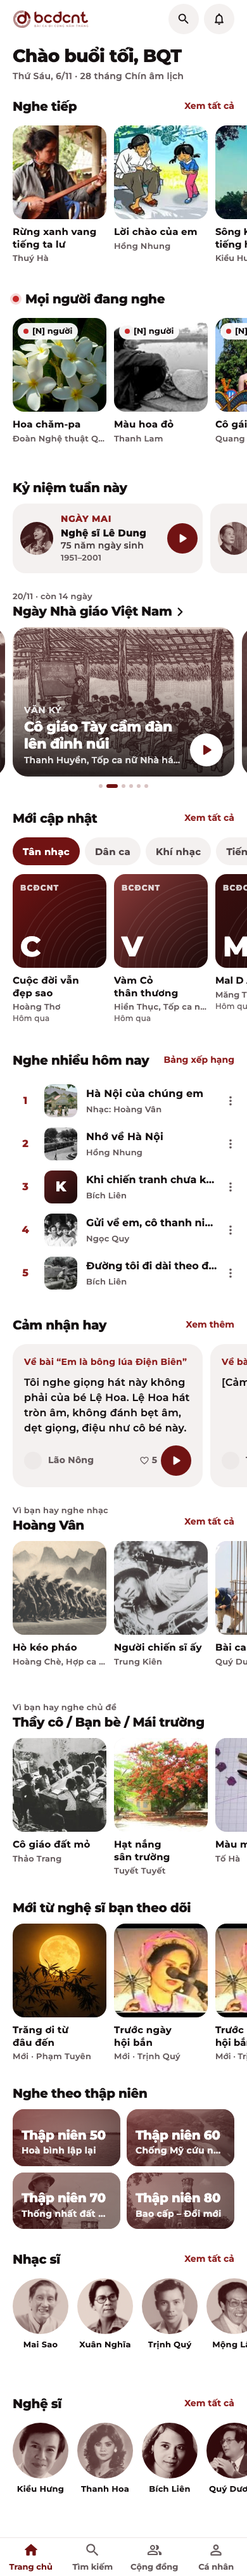
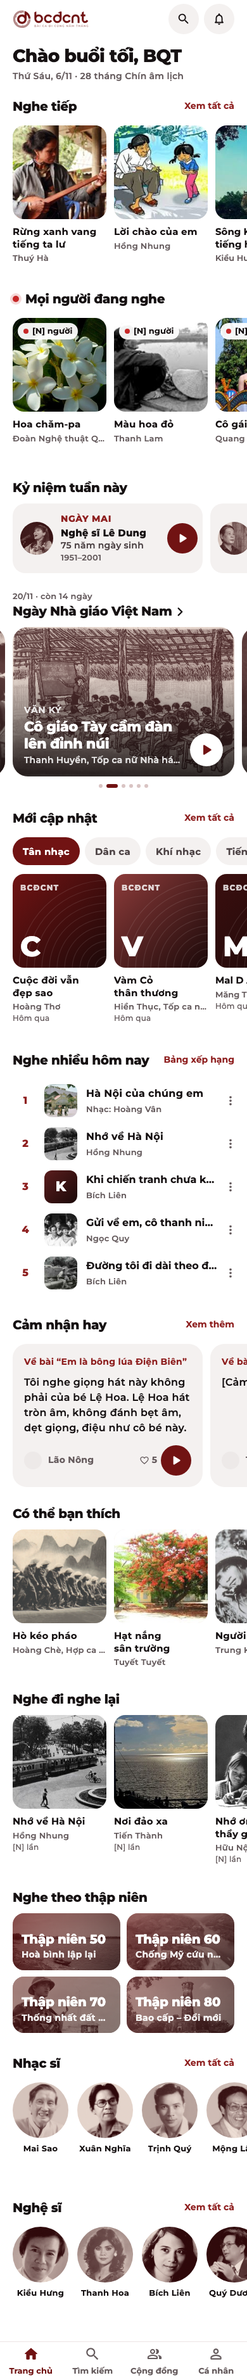
docs(design): canvas trang chủ bản 32 — Có thể bạn thích (phẳng), Nghe đi nghe lại

diff --git a/design/canvas/project/Main.dc.html b/design/canvas/project/Main.dc.html
@@ -11,7 +11,7 @@
 <link href="https://fonts.googleapis.com/css2?family=Montserrat:wght@500;600;700;800&amp;display=swap" rel="stylesheet">
 <style>body{margin:0}a{color:#8E1F1F;text-decoration:none}</style>
 </helmet>
-<div style="width: 390px; height: 4067px; background: #FFFFFF; font-family: Montserrat, sans-serif; line-height: 1.22; color: #161112; display: flex; flex-direction: column; overflow: hidden">
+<div style="width: 390px; height: 3758px; background: #FFFFFF; font-family: Montserrat, sans-serif; line-height: 1.22; color: #161112; display: flex; flex-direction: column; overflow: hidden">
 <!-- BrandTint duotone (lib/widgets/ui.dart): dark #2E080A -> light #F6E8DE by luminance -->
 <svg width="0" height="0" aria-hidden="true" style="position: absolute"><filter id="brandTint" color-interpolation-filters="sRGB"><feColorMatrix type="matrix" values="0.1667 0.5609 0.0566 0 0.1804  0.1868 0.6283 0.0634 0 0.0314  0.1767 0.5946 0.0600 0 0.0392  0 0 0 1 0"></feColorMatrix></filter></svg>
 <!-- Header: logo 120x30 + two 48pt round buttons -->
@@ -43,12 +43,11 @@
 <!-- Cảm nhận hay (_QuoteCard, 300 wide) -->
 <div style="height: 78px; box-sizing: border-box; padding: 28px 12px 10px 20px; display: flex; align-items: center; flex-shrink: 0"><h2 style="margin: 0; flex: 1; min-width: 0; font-size: 20px; line-height: 24px; font-weight: 800; letter-spacing: -0.4px; color: #161112; white-space: nowrap; overflow: hidden; text-overflow: ellipsis">Cảm nhận hay</h2><a href="CongDong.dc.html" style="height: 40px; padding: 0 8px; display: flex; align-items: center; font-size: 14px; font-weight: 700; color: #8E1F1F; text-decoration: none">Xem thêm</a></div><div style="height: 226px; display: flex; gap: 12px; padding: 0 20px; overflow: hidden; flex-shrink: 0"><div style="width: 300px; height: 226px; flex-shrink: 0; box-sizing: border-box; padding: 19.5px 18px 18px 18px; border-radius: 22px; background: #F4F1F0; display: flex; flex-direction: column"><a href="BaiHat.dc.html" style="font-size: 14px; line-height: 17px; font-weight: 700; color: #8E1F1F; text-decoration: none; white-space: nowrap; overflow: hidden; text-overflow: ellipsis; letter-spacing: 0.25px">Về bài “Em là bông lúa Điện Biên”</a><div style="margin-top: 12px; flex: 1; min-height: 0"><div style="font-size: 16px; line-height: 24px; font-weight: 600; color: #161112; display: -webkit-box; -webkit-line-clamp: 4; -webkit-box-orient: vertical; overflow: hidden; letter-spacing: 0.25px">Tôi nghe giọng hát này không phải của bé Lệ Hoa. Lệ Hoa hát tròn âm, không đánh bẹt âm, dẹt giọng, điệu như cô bé này.</div></div><div style="height: 48px; display: flex; align-items: center"><span style="width: 28px; height: 28px; flex-shrink: 0; border-radius: 14px; background: #EDE9E8"></span><span style="margin-left: 10px; flex: 1; min-width: 0; font-size: 14px; font-weight: 700; color: #665C5E; white-space: nowrap; overflow: hidden; text-overflow: ellipsis; letter-spacing: 0.25px">Lão Nông</span><svg width="16" height="16" viewBox="0 0 24 24" fill="#665C5E" aria-hidden="true"><path d="M19.66 3.99c-2.64-1.8-5.9-.96-7.66 1.1-1.76-2.06-5.02-2.91-7.66-1.1-1.4.96-2.28 2.58-2.34 4.29-.14 3.88 3.3 6.99 8.55 11.76l.1.09c.76.69 1.93.69 2.69-.01l.11-.1c5.25-4.76 8.68-7.87 8.53-11.75-.06-1.7-.94-3.32-2.32-4.28zM12.1 18.55l-.1.1-.1-.1C7.14 14.24 4 11.39 4 8.5 4 6.5 5.5 5 7.5 5c1.54 0 3.04.99 3.57 2.36h1.87C13.46 5.99 14.96 5 16.5 5c2 0 3.5 1.5 3.5 3.5 0 2.89-3.14 5.74-7.9 10.05z"></path></svg><span style="margin-left: 4px; font-size: 14px; font-weight: 700; color: #665C5E">5</span><button aria-label="Nghe bài này" style="margin-left: 6px; width: 48px; height: 48px; flex-shrink: 0; padding: 0; border: none; border-radius: 24px; background: #711313; display: flex; align-items: center; justify-content: center"><svg width="26" height="26" viewBox="0 0 24 24" fill="#FFFFFF" aria-hidden="true"><path d="M8 6.82v10.36c0 .79.87 1.27 1.54.84l8.14-5.18c.62-.39.62-1.29 0-1.69L9.54 5.98C8.87 5.55 8 6.03 8 6.82z"></path></svg></button></div></div><div style="width: 300px; height: 226px; flex-shrink: 0; box-sizing: border-box; padding: 19.5px 18px 18px 18px; border-radius: 22px; background: #F4F1F0; display: flex; flex-direction: column"><a href="BaiHat.dc.html" style="font-size: 14px; line-height: 17px; font-weight: 700; color: #8E1F1F; text-decoration: none; white-space: nowrap; overflow: hidden; text-overflow: ellipsis; letter-spacing: 0.25px">Về bài “Bài ca Hà Nội”</a><div style="margin-top: 12px; flex: 1; min-height: 0"><div style="font-size: 16px; line-height: 24px; font-weight: 600; color: #161112; display: -webkit-box; -webkit-line-clamp: 4; -webkit-box-orient: vertical; overflow: hidden; letter-spacing: 0.25px">[Cảm nhận của thành viên]</div></div><div style="height: 48px; display: flex; align-items: center"><span style="width: 28px; height: 28px; flex-shrink: 0; border-radius: 14px; background: #EDE9E8"></span><span style="margin-left: 10px; flex: 1; min-width: 0; font-size: 14px; font-weight: 700; color: #665C5E; white-space: nowrap; overflow: hidden; text-overflow: ellipsis; letter-spacing: 0.25px">Thành viên</span><button aria-label="Nghe bài này" style="margin-left: 6px; width: 48px; height: 48px; flex-shrink: 0; padding: 0; border: none; border-radius: 24px; background: #711313; display: flex; align-items: center; justify-content: center"><svg width="26" height="26" viewBox="0 0 24 24" fill="#FFFFFF" aria-hidden="true"><path d="M8 6.82v10.36c0 .79.87 1.27 1.54.84l8.14-5.18c.62-.39.62-1.29 0-1.69L9.54 5.98C8.87 5.55 8 6.03 8 6.82z"></path></svg></button></div></div></div>
 
-<!-- Dành cho bạn, gom theo lý do: mỗi lý do một dải, lý do làm tiêu đề (không còn nhãn trên ảnh) -->
-<div style="height: 85px; box-sizing: border-box; padding: 28px 12px 10px 20px; display: flex; align-items: flex-end; gap: 8px; flex-shrink: 0"><div style="flex: 1; min-width: 0; display: flex; flex-direction: column"><span style="font-size: 13px; line-height: 16px; font-weight: 600; letter-spacing: 0.25px; color: #665C5E">Vì bạn hay nghe nhạc</span><h2 style="margin: 2px 0 0 0; font-size: 20px; line-height: 29px; font-weight: 800; letter-spacing: -0.4px; color: #161112; white-space: nowrap; overflow: hidden; text-overflow: ellipsis">Hoàng Vân</h2></div><a href="NgheSi.dc.html" style="height: 40px; padding: 0 8px; display: flex; align-items: center; font-size: 14px; font-weight: 700; color: #8E1F1F; text-decoration: none; flex-shrink: 0">Xem tất cả</a></div><div style="height: 226px; display: flex; gap: 12px; padding: 0 20px; overflow: hidden; flex-shrink: 0"><a href="BaiHat.dc.html" style="width: 148px; flex-shrink: 0; display: flex; flex-direction: column; text-decoration: none; color: #161112"><span style="width: 148px; height: 148px; border-radius: 18px; overflow: hidden; display: block; background: #EDE9E8"><img src="/_blob/a9096ffd363b586c77cb3ea2026d1dcd" alt="" style="width: 148px; height: 148px; object-fit: cover; display: block"></span><span style="margin-top: 10px; font-size: 15px; line-height: 19.5px; font-weight: 700; color: #161112; display: -webkit-box; -webkit-line-clamp: 2; -webkit-box-orient: vertical; overflow: hidden; letter-spacing: 0.25px">Hò kéo&nbsp;pháo</span><span style="margin-top: 4.25px; font-size: 13px; line-height: 16px; font-weight: 600; color: #665C5E; white-space: nowrap; overflow: hidden; text-overflow: ellipsis; letter-spacing: 0.25px">Hoàng Chè, Hợp ca nam nữ Đoàn NT QK2</span></a><a href="BaiHat.dc.html" style="width: 148px; flex-shrink: 0; display: flex; flex-direction: column; text-decoration: none; color: #161112"><span style="width: 148px; height: 148px; border-radius: 18px; overflow: hidden; display: block; background: #EDE9E8"><img src="/_blob/0904ef3447178bd511c2ef56eb999eb5" alt="" style="width: 148px; height: 148px; object-fit: cover; display: block"></span><span style="margin-top: 10px; font-size: 15px; line-height: 19.5px; font-weight: 700; color: #161112; display: -webkit-box; -webkit-line-clamp: 2; -webkit-box-orient: vertical; overflow: hidden; letter-spacing: 0.25px">Người chiến sĩ&nbsp;ấy</span><span style="margin-top: 4.25px; font-size: 13px; line-height: 16px; font-weight: 600; color: #665C5E; white-space: nowrap; overflow: hidden; text-overflow: ellipsis; letter-spacing: 0.25px">Trung Kiên</span></a><a href="BaiHat.dc.html" style="width: 148px; flex-shrink: 0; display: flex; flex-direction: column; text-decoration: none; color: #161112"><span style="width: 148px; height: 148px; border-radius: 18px; overflow: hidden; display: block; background: #EDE9E8"><img src="/_blob/6556b2e77a45d564ea495c6f3dbd453b" alt="" style="width: 148px; height: 148px; object-fit: cover; display: block"></span><span style="margin-top: 10px; font-size: 15px; line-height: 19.5px; font-weight: 700; color: #161112; display: -webkit-box; -webkit-line-clamp: 2; -webkit-box-orient: vertical; overflow: hidden; letter-spacing: 0.25px">Bài ca xây&nbsp;dựng</span><span style="margin-top: 4.25px; font-size: 13px; line-height: 16px; font-weight: 600; color: #665C5E; white-space: nowrap; overflow: hidden; text-overflow: ellipsis; letter-spacing: 0.25px">Quý Dương, Trọng Khôi</span></a><a href="BaiHat.dc.html" style="width: 148px; flex-shrink: 0; display: flex; flex-direction: column; text-decoration: none; color: #161112"><span style="width: 148px; height: 148px; border-radius: 18px; overflow: hidden; display: block; background: #EDE9E8"><img src="/_blob/181db0bfe01044e997e41183b929405e" alt="" style="width: 148px; height: 148px; object-fit: cover; display: block"></span><span style="margin-top: 10px; font-size: 15px; line-height: 19.5px; font-weight: 700; color: #161112; display: -webkit-box; -webkit-line-clamp: 2; -webkit-box-orient: vertical; overflow: hidden; letter-spacing: 0.25px">Tôi là người thợ&nbsp;lò</span><span style="margin-top: 4.25px; font-size: 13px; line-height: 16px; font-weight: 600; color: #665C5E; white-space: nowrap; overflow: hidden; text-overflow: ellipsis; letter-spacing: 0.25px">Trần Khánh</span></a></div>
-<div style="height: 85px; box-sizing: border-box; padding: 28px 12px 10px 20px; display: flex; align-items: flex-end; gap: 8px; flex-shrink: 0"><div style="flex: 1; min-width: 0; display: flex; flex-direction: column"><span style="font-size: 13px; line-height: 16px; font-weight: 600; letter-spacing: 0.25px; color: #665C5E">Vì bạn hay nghe chủ đề</span><h2 style="margin: 2px 0 0 0; font-size: 20px; line-height: 29px; font-weight: 800; letter-spacing: -0.4px; color: #161112; white-space: nowrap; overflow: hidden; text-overflow: ellipsis">Thầy cô / Bạn bè / Mái trường</h2></div></div><div style="height: 226px; display: flex; gap: 12px; padding: 0 20px; overflow: hidden; flex-shrink: 0"><a href="BaiHat.dc.html" style="width: 148px; flex-shrink: 0; display: flex; flex-direction: column; text-decoration: none; color: #161112"><span style="width: 148px; height: 148px; border-radius: 18px; overflow: hidden; display: block; background: #EDE9E8"><img src="/_blob/c3eb49be84f21d30d39a418683ce57e7" alt="" style="width: 148px; height: 148px; object-fit: cover; display: block"></span><span style="margin-top: 10px; font-size: 15px; line-height: 19.5px; font-weight: 700; color: #161112; display: -webkit-box; -webkit-line-clamp: 2; -webkit-box-orient: vertical; overflow: hidden; letter-spacing: 0.25px">Cô giáo đất&nbsp;mỏ</span><span style="margin-top: 4.25px; font-size: 13px; line-height: 16px; font-weight: 600; color: #665C5E; white-space: nowrap; overflow: hidden; text-overflow: ellipsis; letter-spacing: 0.25px">Thảo Trang</span></a><a href="BaiHat.dc.html" style="width: 148px; flex-shrink: 0; display: flex; flex-direction: column; text-decoration: none; color: #161112"><span style="width: 148px; height: 148px; border-radius: 18px; overflow: hidden; display: block; background: #EDE9E8"><img src="/_blob/17cfb26ccce209eb43689b40e97d4991" alt="" style="width: 148px; height: 148px; object-fit: cover; display: block"></span><span style="margin-top: 10px; font-size: 15px; line-height: 19.5px; font-weight: 700; color: #161112; display: -webkit-box; -webkit-line-clamp: 2; -webkit-box-orient: vertical; overflow: hidden; letter-spacing: 0.25px">Hạt nắng sân&nbsp;trường</span><span style="margin-top: 4.25px; font-size: 13px; line-height: 16px; font-weight: 600; color: #665C5E; white-space: nowrap; overflow: hidden; text-overflow: ellipsis; letter-spacing: 0.25px">Tuyết Tuyết</span></a><a href="BaiHat.dc.html" style="width: 148px; flex-shrink: 0; display: flex; flex-direction: column; text-decoration: none; color: #161112"><span style="width: 148px; height: 148px; border-radius: 18px; overflow: hidden; display: block; background: #EDE9E8"><img src="/_blob/2b911202dfbe35dbcc16bb5aedd8da78" alt="" style="width: 148px; height: 148px; object-fit: cover; display: block"></span><span style="margin-top: 10px; font-size: 15px; line-height: 19.5px; font-weight: 700; color: #161112; display: -webkit-box; -webkit-line-clamp: 2; -webkit-box-orient: vertical; overflow: hidden; letter-spacing: 0.25px">Màu mực&nbsp;tím</span><span style="margin-top: 4.25px; font-size: 13px; line-height: 16px; font-weight: 600; color: #665C5E; white-space: nowrap; overflow: hidden; text-overflow: ellipsis; letter-spacing: 0.25px">Tố Hà</span></a><a href="BaiHat.dc.html" style="width: 148px; flex-shrink: 0; display: flex; flex-direction: column; text-decoration: none; color: #161112"><span style="width: 148px; height: 148px; border-radius: 18px; overflow: hidden; display: block; background: #EDE9E8"><img src="/_blob/2cae449b871a222c055ec7c7dc96653e" alt="" style="width: 148px; height: 148px; object-fit: cover; display: block"></span><span style="margin-top: 10px; font-size: 15px; line-height: 19.5px; font-weight: 700; color: #161112; display: -webkit-box; -webkit-line-clamp: 2; -webkit-box-orient: vertical; overflow: hidden; letter-spacing: 0.25px">Bài học đầu&nbsp;tiên</span><span style="margin-top: 4.25px; font-size: 13px; line-height: 16px; font-weight: 600; color: #665C5E; white-space: nowrap; overflow: hidden; text-overflow: ellipsis; letter-spacing: 0.25px">Thanh Thảo</span></a></div>
+<!-- Có thể bạn thích: gợi ý ngẫu nhiên, phẳng (không chia nhóm theo lý do), không biểu tượng trên ảnh -->
+<div style="height: 67px; box-sizing: border-box; padding: 28px 12px 10px 20px; flex-shrink: 0"><h2 style="margin: 0; font-size: 20px; line-height: 29px; font-weight: 800; letter-spacing: -0.4px; color: #161112; white-space: nowrap; overflow: hidden; text-overflow: ellipsis">Có thể bạn thích</h2></div><div style="height: 226px; display: flex; gap: 12px; padding: 0 20px; overflow: hidden; flex-shrink: 0"><a href="BaiHat.dc.html" style="width: 148px; flex-shrink: 0; display: flex; flex-direction: column; text-decoration: none; color: #161112"><span style="width: 148px; height: 148px; border-radius: 18px; overflow: hidden; display: block; background: #EDE9E8"><img src="/_blob/a9096ffd363b586c77cb3ea2026d1dcd" alt="" style="width: 148px; height: 148px; object-fit: cover; display: block"></span><span style="margin-top: 10px; font-size: 15px; line-height: 19.5px; font-weight: 700; color: #161112; display: -webkit-box; -webkit-line-clamp: 2; -webkit-box-orient: vertical; overflow: hidden; letter-spacing: 0.25px">Hò kéo&nbsp;pháo</span><span style="margin-top: 4.25px; font-size: 13px; line-height: 16px; font-weight: 600; color: #665C5E; white-space: nowrap; overflow: hidden; text-overflow: ellipsis; letter-spacing: 0.25px">Hoàng Chè, Hợp ca nam nữ Đoàn NT QK2</span></a><a href="BaiHat.dc.html" style="width: 148px; flex-shrink: 0; display: flex; flex-direction: column; text-decoration: none; color: #161112"><span style="width: 148px; height: 148px; border-radius: 18px; overflow: hidden; display: block; background: #EDE9E8"><img src="/_blob/17cfb26ccce209eb43689b40e97d4991" alt="" style="width: 148px; height: 148px; object-fit: cover; display: block"></span><span style="margin-top: 10px; font-size: 15px; line-height: 19.5px; font-weight: 700; color: #161112; display: -webkit-box; -webkit-line-clamp: 2; -webkit-box-orient: vertical; overflow: hidden; letter-spacing: 0.25px">Hạt nắng sân&nbsp;trường</span><span style="margin-top: 4.25px; font-size: 13px; line-height: 16px; font-weight: 600; color: #665C5E; white-space: nowrap; overflow: hidden; text-overflow: ellipsis; letter-spacing: 0.25px">Tuyết Tuyết</span></a><a href="BaiHat.dc.html" style="width: 148px; flex-shrink: 0; display: flex; flex-direction: column; text-decoration: none; color: #161112"><span style="width: 148px; height: 148px; border-radius: 18px; overflow: hidden; display: block; background: #EDE9E8"><img src="/_blob/0904ef3447178bd511c2ef56eb999eb5" alt="" style="width: 148px; height: 148px; object-fit: cover; display: block"></span><span style="margin-top: 10px; font-size: 15px; line-height: 19.5px; font-weight: 700; color: #161112; display: -webkit-box; -webkit-line-clamp: 2; -webkit-box-orient: vertical; overflow: hidden; letter-spacing: 0.25px">Người chiến sĩ&nbsp;ấy</span><span style="margin-top: 4.25px; font-size: 13px; line-height: 16px; font-weight: 600; color: #665C5E; white-space: nowrap; overflow: hidden; text-overflow: ellipsis; letter-spacing: 0.25px">Trung Kiên</span></a><a href="BaiHat.dc.html" style="width: 148px; flex-shrink: 0; display: flex; flex-direction: column; text-decoration: none; color: #161112"><span style="width: 148px; height: 148px; border-radius: 18px; overflow: hidden; display: block; background: #EDE9E8"><img src="/_blob/2b911202dfbe35dbcc16bb5aedd8da78" alt="" style="width: 148px; height: 148px; object-fit: cover; display: block"></span><span style="margin-top: 10px; font-size: 15px; line-height: 19.5px; font-weight: 700; color: #161112; display: -webkit-box; -webkit-line-clamp: 2; -webkit-box-orient: vertical; overflow: hidden; letter-spacing: 0.25px">Màu mực&nbsp;tím</span><span style="margin-top: 4.25px; font-size: 13px; line-height: 16px; font-weight: 600; color: #665C5E; white-space: nowrap; overflow: hidden; text-overflow: ellipsis; letter-spacing: 0.25px">Tố Hà</span></a></div>
 
-<!-- Mới từ nghệ sĩ bạn theo dõi (chỉ bài 30 ngày gần nhất; không có thì ẩn) -->
-<div style="height: 67px; box-sizing: border-box; padding: 28px 12px 10px 20px; flex-shrink: 0"><h2 style="margin: 0; font-size: 20px; line-height: 29px; font-weight: 800; letter-spacing: -0.4px; color: #161112; white-space: nowrap; overflow: hidden; text-overflow: ellipsis">Mới từ nghệ sĩ bạn theo dõi</h2></div><div style="height: 226px; display: flex; gap: 12px; padding: 0 20px; overflow: hidden; flex-shrink: 0"><a href="BaiHat.dc.html" style="width: 148px; flex-shrink: 0; display: flex; flex-direction: column; text-decoration: none; color: #161112"><span style="width: 148px; height: 148px; border-radius: 18px; overflow: hidden; position: relative; display: block; background: #EDE9E8"><img src="/_blob/90ce18ebff01581a476b98e174ec5415" alt="" style="width: 148px; height: 148px; object-fit: cover; display: block"></span><span style="margin-top: 10px; font-size: 15px; line-height: 19.5px; font-weight: 700; color: #161112; display: -webkit-box; -webkit-line-clamp: 2; -webkit-box-orient: vertical; overflow: hidden; letter-spacing: 0.25px">Trăng ơi từ đâu&nbsp;đến</span><span style="margin-top: 4.25px; font-size: 13px; line-height: 16px; font-weight: 600; color: #665C5E; white-space: nowrap; overflow: hidden; text-overflow: ellipsis; letter-spacing: 0.27px">Mới · Phạm Tuyên</span></a><a href="BaiHat.dc.html" style="width: 148px; flex-shrink: 0; display: flex; flex-direction: column; text-decoration: none; color: #161112"><span style="width: 148px; height: 148px; border-radius: 18px; overflow: hidden; position: relative; display: block; background: #EDE9E8"><img src="/_blob/811545d1259d6f9b24efadf20091f2cd" alt="" style="width: 148px; height: 148px; object-fit: cover; display: block"></span><span style="margin-top: 10px; font-size: 15px; line-height: 19.5px; font-weight: 700; color: #161112; display: -webkit-box; -webkit-line-clamp: 2; -webkit-box-orient: vertical; overflow: hidden; letter-spacing: 0.31px">Trước ngày hội&nbsp;bắn</span><span style="margin-top: 4.25px; font-size: 13px; line-height: 16px; font-weight: 600; color: #665C5E; white-space: nowrap; overflow: hidden; text-overflow: ellipsis; letter-spacing: 0.25px">Mới · Trịnh Quý</span></a><a href="BaiHat.dc.html" style="width: 148px; flex-shrink: 0; display: flex; flex-direction: column; text-decoration: none; color: #161112"><span style="width: 148px; height: 148px; border-radius: 18px; overflow: hidden; position: relative; display: block; background: #EDE9E8"><img src="/_blob/811545d1259d6f9b24efadf20091f2cd" alt="" style="width: 148px; height: 148px; object-fit: cover; display: block"></span><span style="margin-top: 10px; font-size: 15px; line-height: 19.5px; font-weight: 700; color: #161112; display: -webkit-box; -webkit-line-clamp: 2; -webkit-box-orient: vertical; overflow: hidden">Trước ngày hội&nbsp;bắn</span><span style="margin-top: 4.25px; font-size: 13px; line-height: 16px; font-weight: 600; color: #665C5E; white-space: nowrap; overflow: hidden; text-overflow: ellipsis">Mới · Trịnh Quý</span></a></div>
+<!-- Nghe đi nghe lại: bài chính bạn nghe nhiều lần nhất (60–90 ngày, từ 3 lần), xếp theo số lần (mostListens, từ trước tới nay, từ 3 lần); [N] = số lần nghe -->
+<div style="height: 67px; box-sizing: border-box; padding: 28px 12px 10px 20px; flex-shrink: 0"><h2 style="margin: 0; font-size: 20px; line-height: 29px; font-weight: 800; letter-spacing: -0.4px; color: #161112; white-space: nowrap; overflow: hidden; text-overflow: ellipsis">Nghe đi nghe lại</h2></div><div style="height: 246px; display: flex; gap: 12px; padding: 0 20px; overflow: hidden; flex-shrink: 0"><a href="BaiHat.dc.html" style="width: 148px; flex-shrink: 0; display: flex; flex-direction: column; text-decoration: none; color: #161112"><span style="width: 148px; height: 148px; border-radius: 18px; overflow: hidden; display: block; background: #EDE9E8"><img src="/_blob/1c5dda211792aea9143139f889d99c6c" alt="" style="width: 148px; height: 148px; object-fit: cover; display: block"></span><span style="margin-top: 10px; font-size: 15px; line-height: 19.5px; font-weight: 700; color: #161112; display: -webkit-box; -webkit-line-clamp: 2; -webkit-box-orient: vertical; overflow: hidden; letter-spacing: 0.25px">Nhớ về Hà&nbsp;Nội</span><span style="margin-top: 4.25px; font-size: 13px; line-height: 16px; font-weight: 600; color: #665C5E; white-space: nowrap; overflow: hidden; text-overflow: ellipsis; letter-spacing: 0.25px">Hồng Nhung</span><span style="margin-top: 3px; font-size: 12px; line-height: 16px; font-weight: 500; letter-spacing: 0.25px; color: #665C5E">[N] lần</span></a><a href="BaiHat.dc.html" style="width: 148px; flex-shrink: 0; display: flex; flex-direction: column; text-decoration: none; color: #161112"><span style="width: 148px; height: 148px; border-radius: 18px; overflow: hidden; display: block; background: #EDE9E8"><img src="/_blob/15d021a625e44f0e9ff37aae395a5ec2" alt="" style="width: 148px; height: 148px; object-fit: cover; display: block"></span><span style="margin-top: 10px; font-size: 15px; line-height: 19.5px; font-weight: 700; color: #161112; display: -webkit-box; -webkit-line-clamp: 2; -webkit-box-orient: vertical; overflow: hidden; letter-spacing: 0.25px">Nơi đảo&nbsp;xa</span><span style="margin-top: 4.25px; font-size: 13px; line-height: 16px; font-weight: 600; color: #665C5E; white-space: nowrap; overflow: hidden; text-overflow: ellipsis; letter-spacing: 0.25px">Tiến Thành</span><span style="margin-top: 3px; font-size: 12px; line-height: 16px; font-weight: 500; letter-spacing: 0.25px; color: #665C5E">[N] lần</span></a><a href="BaiHat.dc.html" style="width: 148px; flex-shrink: 0; display: flex; flex-direction: column; text-decoration: none; color: #161112"><span style="width: 148px; height: 148px; border-radius: 18px; overflow: hidden; display: block; background: #EDE9E8"><img src="/_blob/ff509d607951ba314cc95c52003e4258" alt="" style="width: 148px; height: 148px; object-fit: cover; display: block"></span><span style="margin-top: 10px; font-size: 15px; line-height: 19.5px; font-weight: 700; color: #161112; display: -webkit-box; -webkit-line-clamp: 2; -webkit-box-orient: vertical; overflow: hidden; letter-spacing: 0.25px">Nhớ ơn người thầy&nbsp;giáo</span><span style="margin-top: 4.25px; font-size: 13px; line-height: 16px; font-weight: 600; color: #665C5E; white-space: nowrap; overflow: hidden; text-overflow: ellipsis; letter-spacing: 0.25px">Hữu Nội, Tốp ca nữ Đài TNVN</span><span style="margin-top: 3px; font-size: 12px; line-height: 16px; font-weight: 500; letter-spacing: 0.25px; color: #665C5E">[N] lần</span></a><a href="BaiHat.dc.html" style="width: 148px; flex-shrink: 0; display: flex; flex-direction: column; text-decoration: none; color: #161112"><span style="width: 148px; height: 148px; border-radius: 18px; overflow: hidden; display: block; background: #EDE9E8"><img src="/_blob/1bfcbf5bd606aa8a3d5f83975585c1e7" alt="" style="width: 148px; height: 148px; object-fit: cover; display: block"></span><span style="margin-top: 10px; font-size: 15px; line-height: 19.5px; font-weight: 700; color: #161112; display: -webkit-box; -webkit-line-clamp: 2; -webkit-box-orient: vertical; overflow: hidden; letter-spacing: 0.25px">Hà Nội của chúng&nbsp;em</span><span style="margin-top: 4.25px; font-size: 13px; line-height: 16px; font-weight: 600; color: #665C5E; white-space: nowrap; overflow: hidden; text-overflow: ellipsis; letter-spacing: 0.25px">Nhạc: Hoàng Vân</span><span style="margin-top: 3px; font-size: 12px; line-height: 16px; font-weight: 500; letter-spacing: 0.25px; color: #665C5E">[N] lần</span></a></div>
 
 <!-- Nghe theo thập niên (_DecadeGrid) -->
 <div style="height: 67px; box-sizing: border-box; padding: 28px 12px 10px 20px; flex-shrink: 0"><h2 style="margin: 0; font-size: 20px; line-height: 29px; font-weight: 800; letter-spacing: -0.4px; color: #161112; white-space: nowrap; overflow: hidden; text-overflow: ellipsis">Nghe theo thập niên</h2></div><div style="height: 189px; padding: 0 20px; display: grid; grid-template-columns: repeat(2, minmax(0, 1fr)); grid-auto-rows: 89.5px; gap: 10px; flex-shrink: 0"><a href="DanhSach.dc.html" style="height: 89.5px; position: relative; border-radius: 18px; overflow: hidden; background: linear-gradient(135deg, #711313, #1B0909); text-decoration: none"><img src="/_blob/7229852090cb903812549551413e14cb" alt="" style="position: absolute; left: 0; top: 0; width: 100%; height: 100%; object-fit: cover; opacity: 0.5; filter: url(#brandTint)"><span style="position: absolute; left: 0; top: 0; right: 0; bottom: 0; box-sizing: border-box; padding: 14px 14px 15.5px 14px; display: flex; flex-direction: column; justify-content: flex-end"><span style="font-size: 20px; line-height: 24px; font-weight: 800; letter-spacing: -0.4px; color: #FFFFFF; margin-bottom: 4.5px">Thập niên 50</span><span style="font-size: 14px; line-height: 17px; font-weight: 700; color: rgba(255,255,255,0.92); white-space: nowrap; overflow: hidden; text-overflow: ellipsis; letter-spacing: 0.25px">Hoà bình lập lại</span></span></a><a href="DanhSach.dc.html" style="height: 89.5px; position: relative; border-radius: 18px; overflow: hidden; background: linear-gradient(135deg, #8C3B3A, #1B0909); text-decoration: none"><img src="/_blob/347a87561e5096b8ac982c0ba4fe4ee2" alt="" style="position: absolute; left: 0; top: 0; width: 100%; height: 100%; object-fit: cover; opacity: 0.5; filter: url(#brandTint)"><span style="position: absolute; left: 0; top: 0; right: 0; bottom: 0; box-sizing: border-box; padding: 14px 14px 15.5px 14px; display: flex; flex-direction: column; justify-content: flex-end"><span style="font-size: 20px; line-height: 24px; font-weight: 800; letter-spacing: -0.4px; color: #FFFFFF; margin-bottom: 4.5px">Thập niên 60</span><span style="font-size: 14px; line-height: 17px; font-weight: 700; color: rgba(255,255,255,0.92); white-space: nowrap; overflow: hidden; text-overflow: ellipsis; letter-spacing: 0.25px">Chống Mỹ cứu nước</span></span></a><a href="DanhSach.dc.html" style="height: 89.5px; position: relative; border-radius: 18px; overflow: hidden; background: linear-gradient(135deg, #5A1D1D, #1B0909); text-decoration: none"><img src="/_blob/4d43b1ae67d8f63d12f062c5a3594426" alt="" style="position: absolute; left: 0; top: 0; width: 100%; height: 100%; object-fit: cover; opacity: 0.5; filter: url(#brandTint)"><span style="position: absolute; left: 0; top: 0; right: 0; bottom: 0; box-sizing: border-box; padding: 14px 14px 15.5px 14px; display: flex; flex-direction: column; justify-content: flex-end"><span style="font-size: 20px; line-height: 24px; font-weight: 800; letter-spacing: -0.4px; color: #FFFFFF; margin-bottom: 4.5px">Thập niên 70</span><span style="font-size: 14px; line-height: 17px; font-weight: 700; color: rgba(255,255,255,0.92); white-space: nowrap; overflow: hidden; text-overflow: ellipsis; letter-spacing: 0.25px">Thống nhất đất nước</span></span></a><a href="DanhSach.dc.html" style="height: 89.5px; position: relative; border-radius: 18px; overflow: hidden; background: linear-gradient(135deg, #9C5E5C, #1B0909); text-decoration: none"><img src="/_blob/fa0fa31512004cd35b83cd21cca5b844" alt="" style="position: absolute; left: 0; top: 0; width: 100%; height: 100%; object-fit: cover; opacity: 0.5; filter: url(#brandTint)"><span style="position: absolute; left: 0; top: 0; right: 0; bottom: 0; box-sizing: border-box; padding: 14px 14px 15.5px 14px; display: flex; flex-direction: column; justify-content: flex-end"><span style="font-size: 20px; line-height: 24px; font-weight: 800; letter-spacing: -0.4px; color: #FFFFFF; margin-bottom: 4.5px">Thập niên 80</span><span style="font-size: 14px; line-height: 17px; font-weight: 700; color: rgba(255,255,255,0.92); white-space: nowrap; overflow: hidden; text-overflow: ellipsis; letter-spacing: 0.25px">Bao cấp – Đổi mới</span></span></a></div>
@@ -62,7 +61,7 @@
 <dc-import name="TabBar" active="home" hint-size="390px,61px"></dc-import>
 </div>
 </x-dc>
-<script type="text/x-dc" data-dc-script data-props='{"$preview":{"width":390,"height":4067}}'>
+<script type="text/x-dc" data-dc-script data-props='{"$preview":{"width":390,"height":3758}}'>
 class Component extends DCLogic {
 renderVals() {
 return {};
